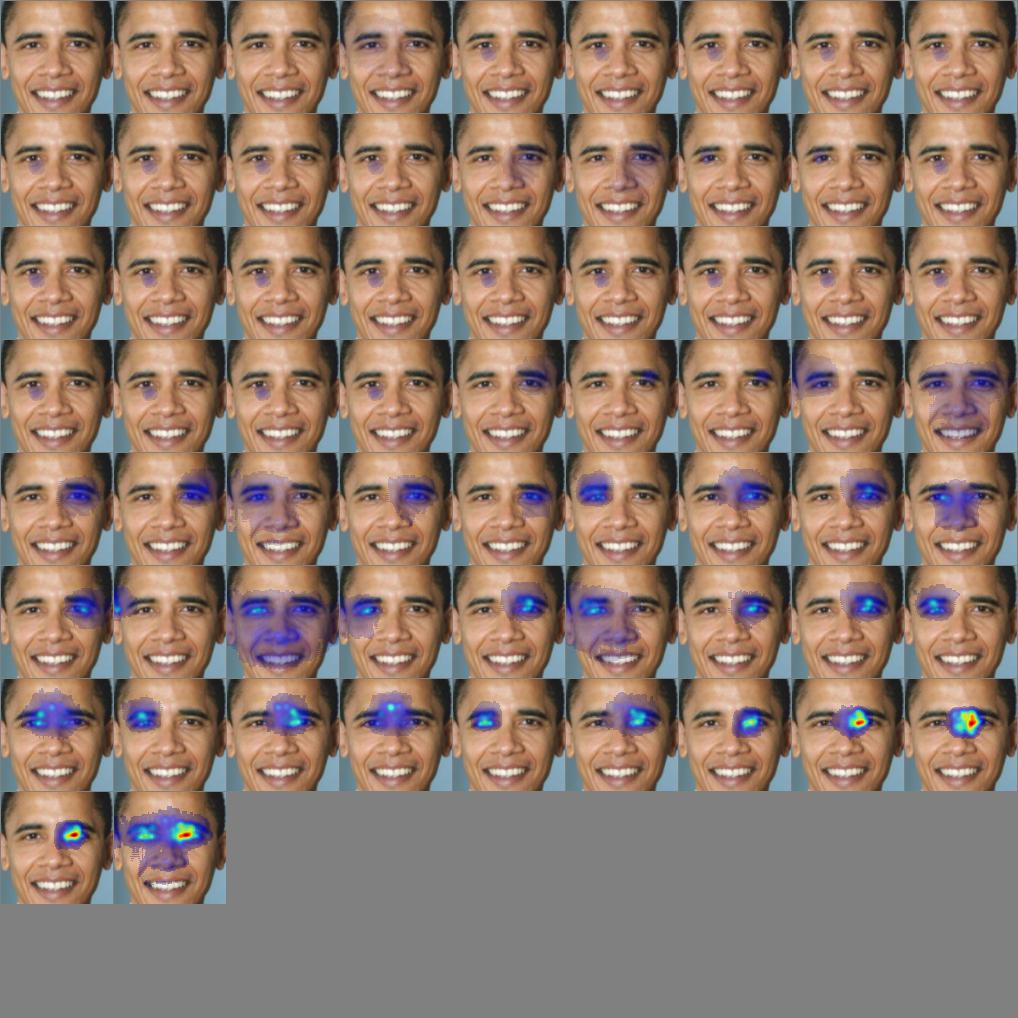
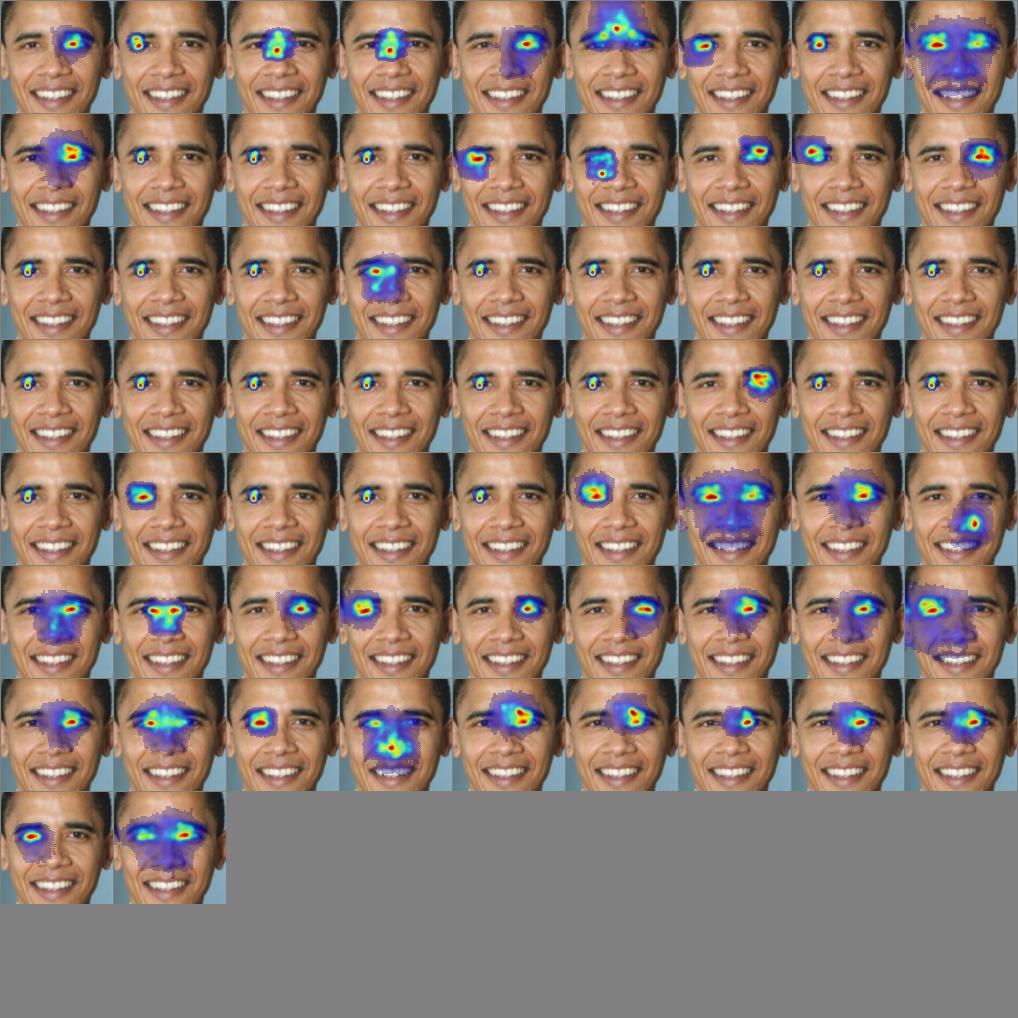
constant scale factor for weighted subtree EBP demo

diff --git a/demo/test_whitebox.py b/demo/test_whitebox.py
@@ -145,7 +145,8 @@ def truncated_contrastive_triplet_ebp():
 
 def layerwise_ebp():
     """EBP alpha transparency montage starting from each interior layer and selected node specified by argmax excitation at this layer"""
-
+    raise('Deprecated')
+    
     wb = Whitebox(WhiteboxSTResnet(stresnet101('../models/resnet101v4_28NOV17_train.pth')), ebp_version=5, ebp_subtree_mode='all')
     im_probe = PIL.Image.open('../data/demo_face.jpg')
     img_display = np.array(im_probe.resize( (112,112) ))
@@ -187,8 +188,8 @@ def weighted_subtree_triplet_ebp(topk=1, mask='nose'):
     P_img.append(img_subtree)
     for (k, (p, img_saliency)) in enumerate(zip(P_subtree, P_img)):
         outfile = os.path.join(tempfile.gettempdir(), '%s.jpg' % uuid.uuid1().hex)
-        #alpha_composite = _blend_saliency_map(img_probe_display, np.float32(img_saliency)/255.0, scale_factor=1.0/(p+1E-12)).save(outfile, 'JPEG', quality=95)  # EBP scale factor for display
-        alpha_composite = _blend_saliency_map(img_probe_display, np.float32(img_saliency)/255.0, scale_factor=float(len(P_img)-k)/len(P_img)).save(outfile, 'JPEG', quality=95)    # linear scale factor for display
+        #alpha_composite = _blend_saliency_map(img_probe_display, np.float32(img_saliency)/255.0, scale_factor=1.0/(p+1E-12)).save(outfile, 'JPEG', quality=95)  # EBP scale factor for display 
+        alpha_composite = _blend_saliency_map(img_probe_display, np.float32(img_saliency)/255.0, scale_factor=1.0).save(outfile, 'JPEG', quality=95)    # uniform scale factor for display
         imlist.append(vipy.image.ImageDetection(filename=outfile, xmin=0, ymin=0, width=112, height=112).rgb())
 
     f_montage = './test_whitebox_weighted_subtree_ebp_topk_%d_mask_%s.jpg' % (topk, mask)
@@ -273,7 +274,6 @@ if __name__ == "__main__":
     weighted_subtree_triplet_ebp(topk=64, mask='nose')
     weighted_subtree_triplet_ebp(topk=64, mask='eyes')
     weighted_subtree_triplet_ebp(topk=64, mask='mouth')
-    layerwise_ebp()
 
     # Other whitebox face matchers
     ebp_resnet50_128()
